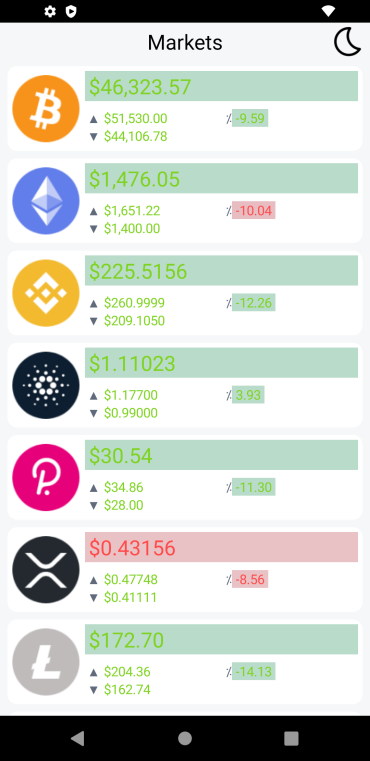
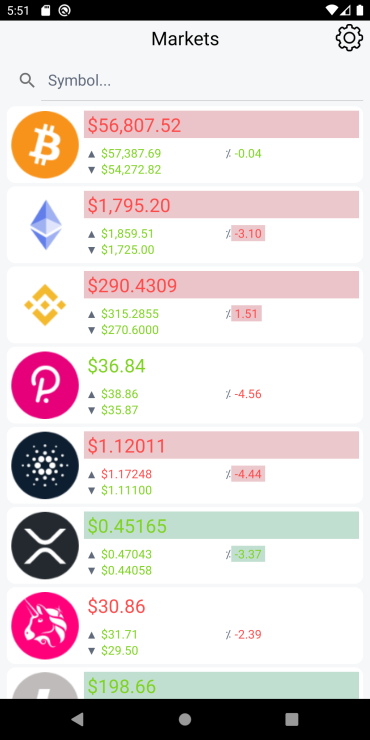
New screenshots

diff --git a/README.md b/README.md
@@ -12,6 +12,7 @@ LiLo.Lite is a light-weight cryptocurrency (crypto) tracking application.  It pr
 ### Markets page
 ![Home Page - Light theme - Portrait](Screenshots/HomeLight.png)
 ![Home Page - Dark theme - Portrait](Screenshots/HomeDark.png)
+![Home Page - Light theme - Search](Screenshots/HomeLight_Search.png)
 ![Home Page - Light theme - Landscape](Screenshots/HomeLightL.png)
 ![Home Page - Dark theme - Landscape](Screenshots/HomeDarkL.png)
 
@@ -19,9 +20,17 @@ LiLo.Lite is a light-weight cryptocurrency (crypto) tracking application.  It pr
 ![Chart page - Light theme](Screenshots/ChartLight.png)
 ![Chart page - Dark theme](Screenshots/ChartDark.png)
 
+## Settings page
+![Settings page - Light theme](Screenshots/SettingsLight.png)
+![Settings page - Dark theme](Screenshots/SettingsDark.png)
+
+## Manage favourites page
+![Favourites page - Light theme](Screenshots/FavouritesLight.png)
+![Favourites page - Dark theme](Screenshots/FavouritesDark.png)
+
 ### Additional devices and OS versions
-![Home Page - Light theme - Pixel C Lollipop 5.0 - API 21](Screenshots/HomeLight_Pixel_C_Lollipop_5.0_API_21.png)
-![Home Page - Light theme - Pixel 2 Lollipop 5.0 - API 21](Screenshots/HomeLight_Pixel_2_Lollipop_5.0_API_21.png)
+![Home Page - Light theme - Nexus One with Lollipop 5.0 - API 21](Screenshots/HomeLight_Nexus_One_Lollipop_5.0_API_21.png)
+![Home Page - Light theme - Pixel 2 with Lollipop 5.0 - API 21](Screenshots/HomeLight_Pixel_2_Lollipop_5.0_API_21.png)
 
 ## Supported Platforms: Android, iOS
 
